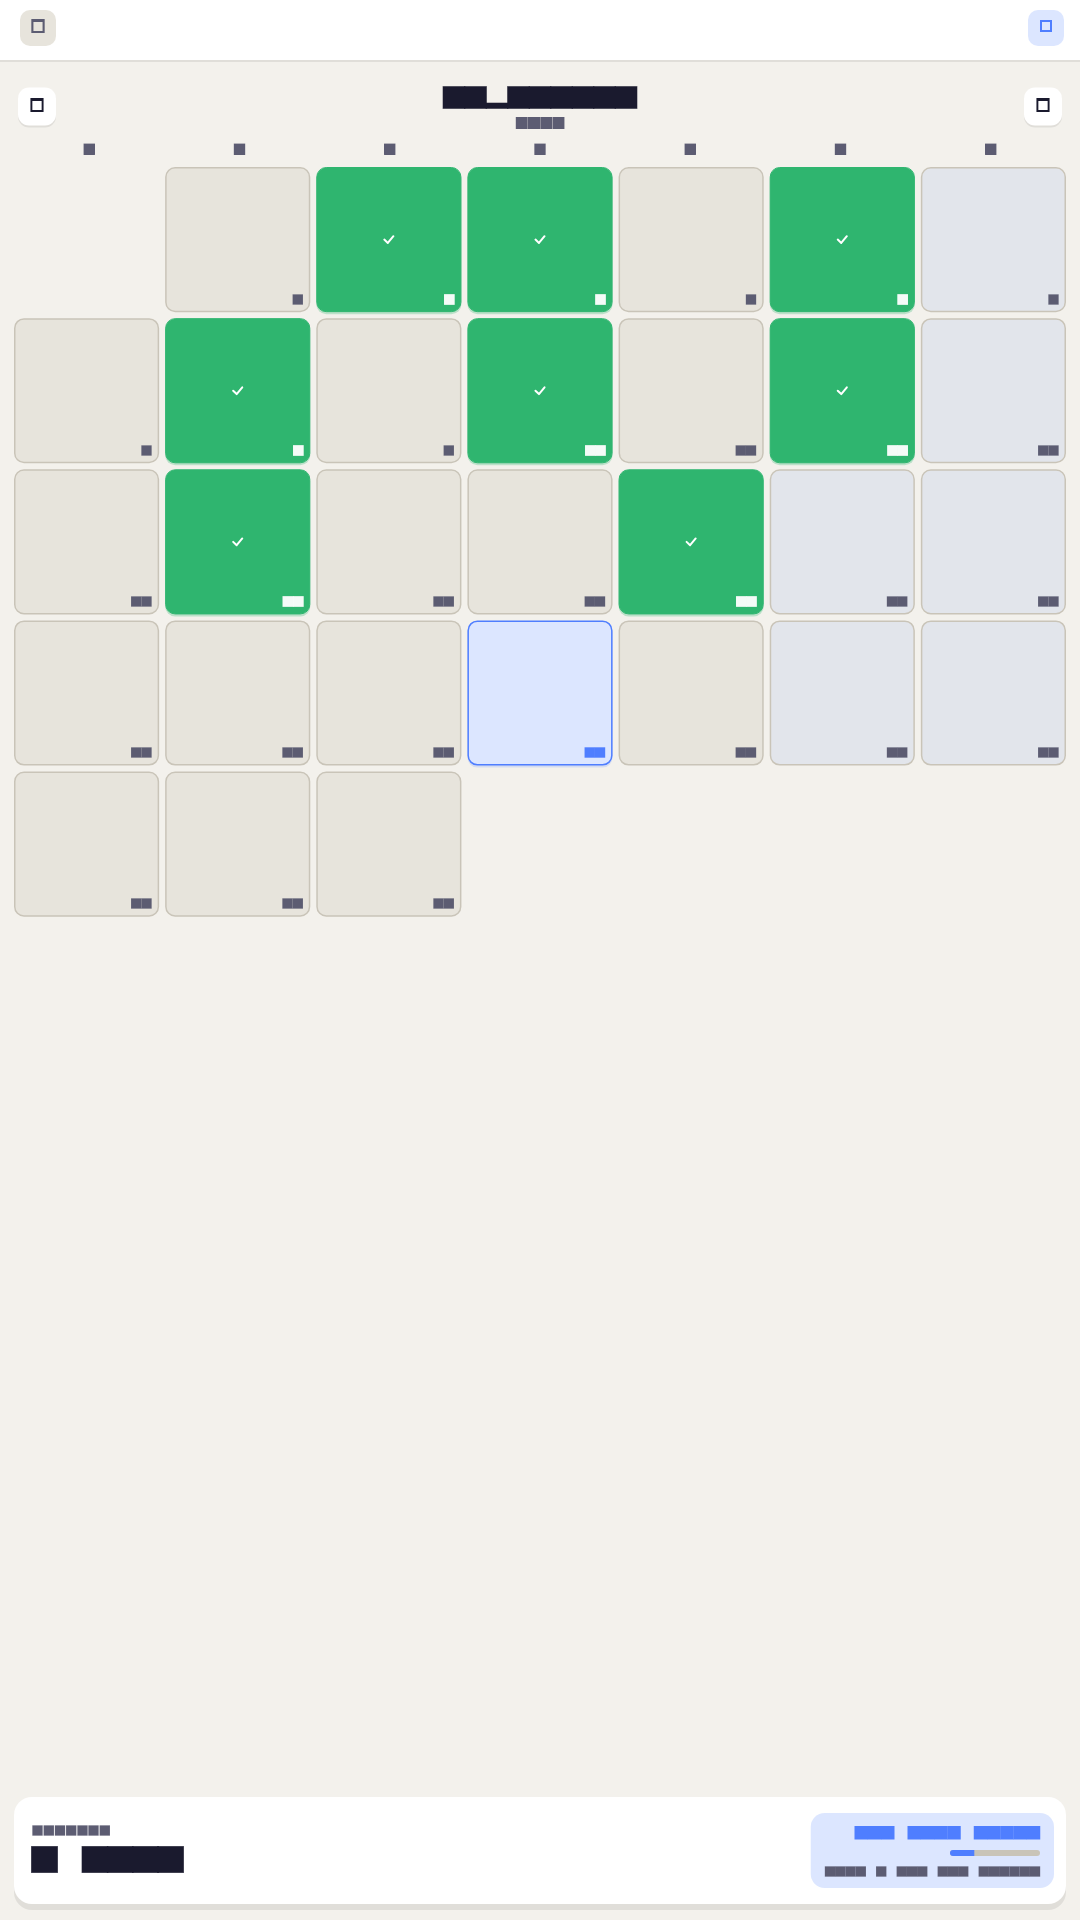
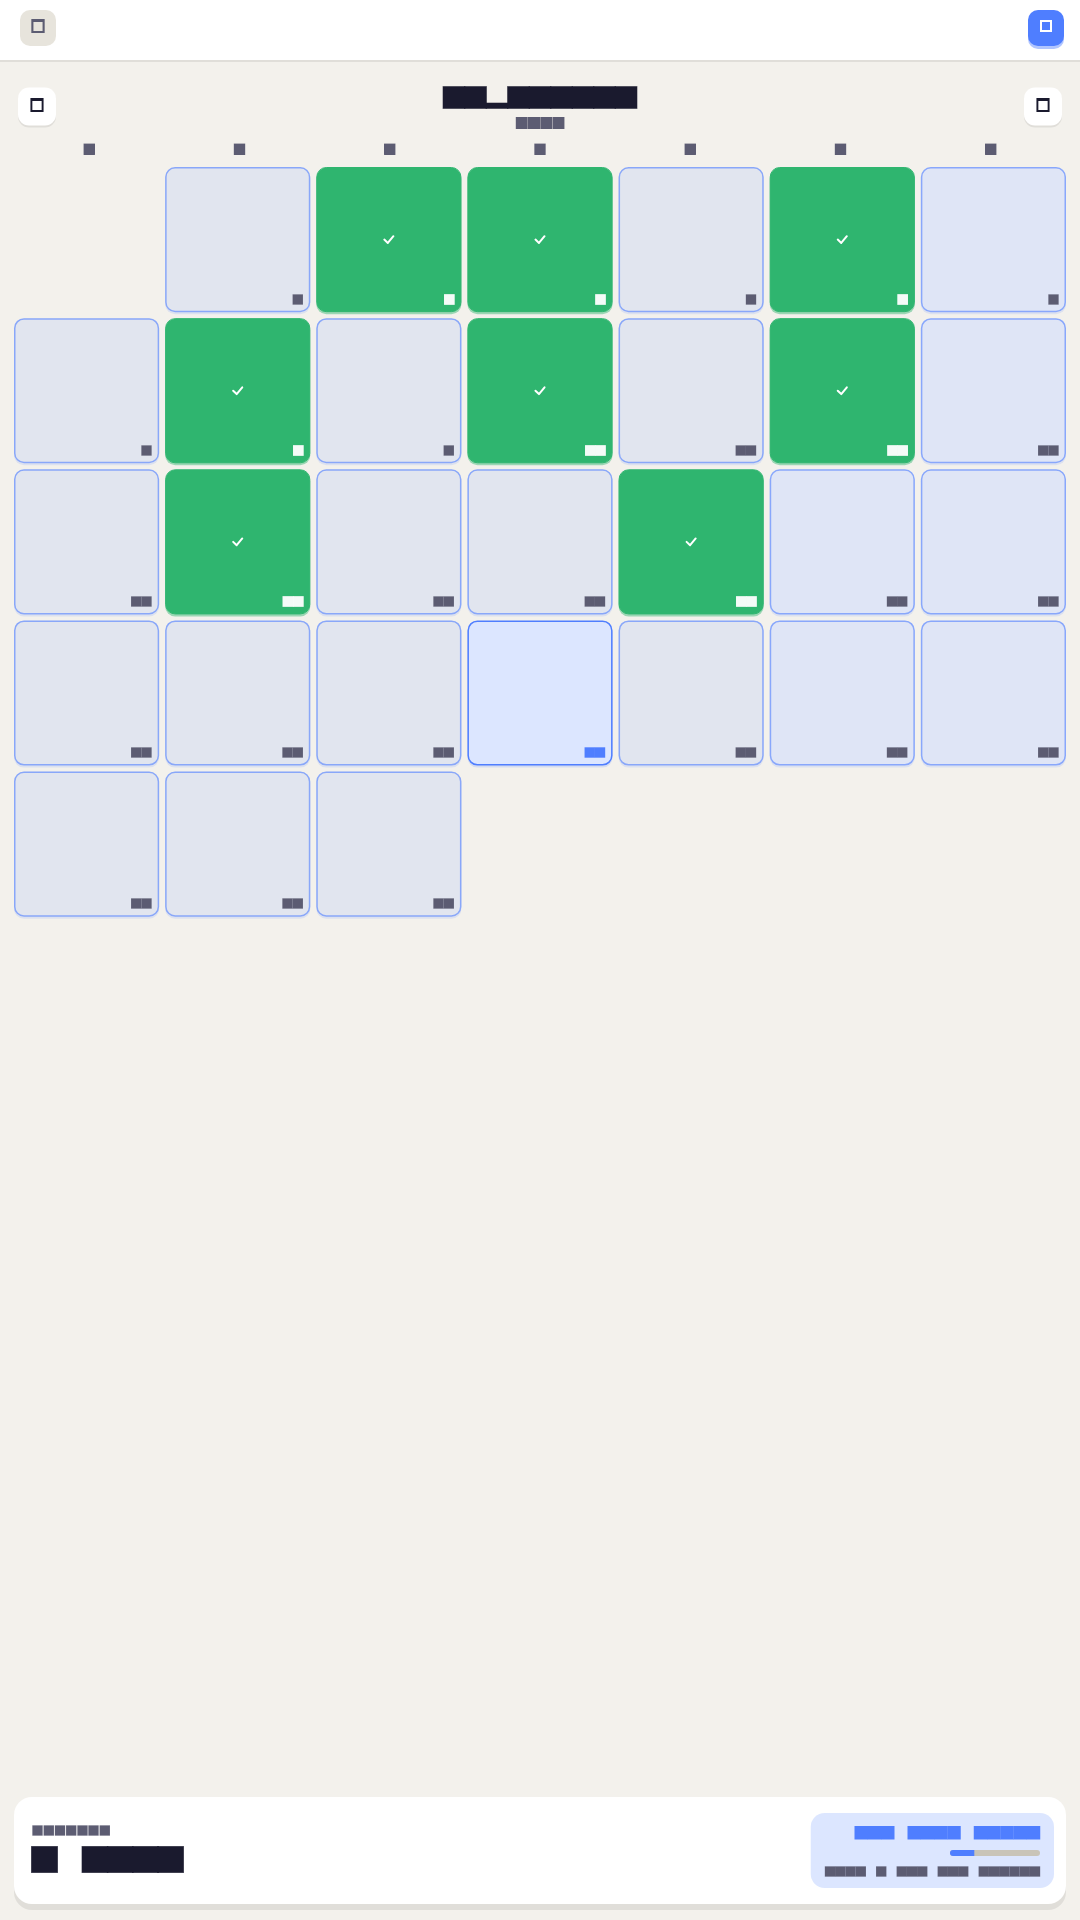
Release 1.2.8: light up the calendar and edit button in edit mode.
- Edit button fills with the accent color and glows while edit mode is on.
- Editable days get an accent tint, border, and soft glow so they read as tap targets; marked days glow brighter.
- Refresh Play Store screenshot goldens; bump to 1.2.8+14.

diff --git a/lib/screens/HomeScreen.dart b/lib/screens/HomeScreen.dart
@@ -332,11 +332,12 @@ class _HomeScreenState extends State<HomeScreen> with WidgetsBindingObserver {
           _IconButton(
             palette: p,
             active: isEditMode,
+            lit: true,
             onTap: () => setState(() => isEditMode = !isEditMode),
             child: Icon(
               isEditMode ? Icons.edit_rounded : Icons.edit_outlined,
               size: 16,
-              color: isEditMode ? p.accent : p.textMid,
+              color: isEditMode ? Colors.white : p.textMid,
             ),
           ),
         ],
@@ -457,9 +458,37 @@ class _HomeScreenState extends State<HomeScreen> with WidgetsBindingObserver {
           } else if (isToday) {
             bgColor = p.accentSoft;
             cellBorder = Border.all(color: p.accent, width: 1.5);
+          } else if (isEditMode) {
+            // Edit mode: every editable day lights up so it reads as a target.
+            bgColor = Color.lerp(_unmarkedFill(date, p), p.accentSoft, 0.55)!;
+            cellBorder = Border.all(
+              color: p.accent.withValues(alpha: 0.6),
+              width: 1.5,
+            );
           } else {
             bgColor = _unmarkedFill(date, p);
             cellBorder = Border.all(color: p.border, width: 1.5);
+          }
+
+          final List<BoxShadow>? glow;
+          if (marked) {
+            glow = [
+              BoxShadow(
+                color: fill.withValues(alpha: isEditMode ? 0.45 : 0.28),
+                blurRadius: isEditMode ? 10 : 8,
+                offset: const Offset(0, 2),
+              ),
+            ];
+          } else if (isToday || isEditMode) {
+            glow = [
+              BoxShadow(
+                color: p.accent.withValues(alpha: isToday ? 0.18 : 0.14),
+                blurRadius: 8,
+                offset: const Offset(0, 2),
+              ),
+            ];
+          } else {
+            glow = null;
           }
 
           return GestureDetector(
@@ -471,23 +500,7 @@ class _HomeScreenState extends State<HomeScreen> with WidgetsBindingObserver {
                 color: bgColor,
                 borderRadius: BorderRadius.circular(10),
                 border: cellBorder,
-                boxShadow: marked
-                    ? [
-                        BoxShadow(
-                          color: fill.withValues(alpha: 0.28),
-                          blurRadius: 8,
-                          offset: const Offset(0, 2),
-                        )
-                      ]
-                    : isToday
-                        ? [
-                            BoxShadow(
-                              color: p.accent.withValues(alpha: 0.18),
-                              blurRadius: 8,
-                              offset: const Offset(0, 2),
-                            )
-                          ]
-                        : null,
+                boxShadow: glow,
               ),
               child: ClipRRect(
                 borderRadius: BorderRadius.circular(9),
@@ -636,15 +649,20 @@ class _IconButton extends StatelessWidget {
   final VoidCallback onTap;
   final Widget child;
 
+  /// When true, the active state fills with the accent color and glows.
+  final bool lit;
+
   const _IconButton({
     required this.palette,
     required this.active,
     required this.onTap,
     required this.child,
+    this.lit = false,
   });
 
   @override
   Widget build(BuildContext context) {
+    final glow = active && lit;
     return GestureDetector(
       onTap: onTap,
       child: AnimatedContainer(
@@ -652,8 +670,21 @@ class _IconButton extends StatelessWidget {
         width: 36,
         height: 36,
         decoration: BoxDecoration(
-          color: active ? palette.accentSoft : palette.surfaceAlt,
+          color: glow
+              ? palette.accent
+              : active
+                  ? palette.accentSoft
+                  : palette.surfaceAlt,
           borderRadius: BorderRadius.circular(10),
+          boxShadow: glow
+              ? [
+                  BoxShadow(
+                    color: palette.accent.withValues(alpha: 0.45),
+                    blurRadius: 12,
+                    offset: const Offset(0, 3),
+                  ),
+                ]
+              : null,
         ),
         child: Center(child: child),
       ),
